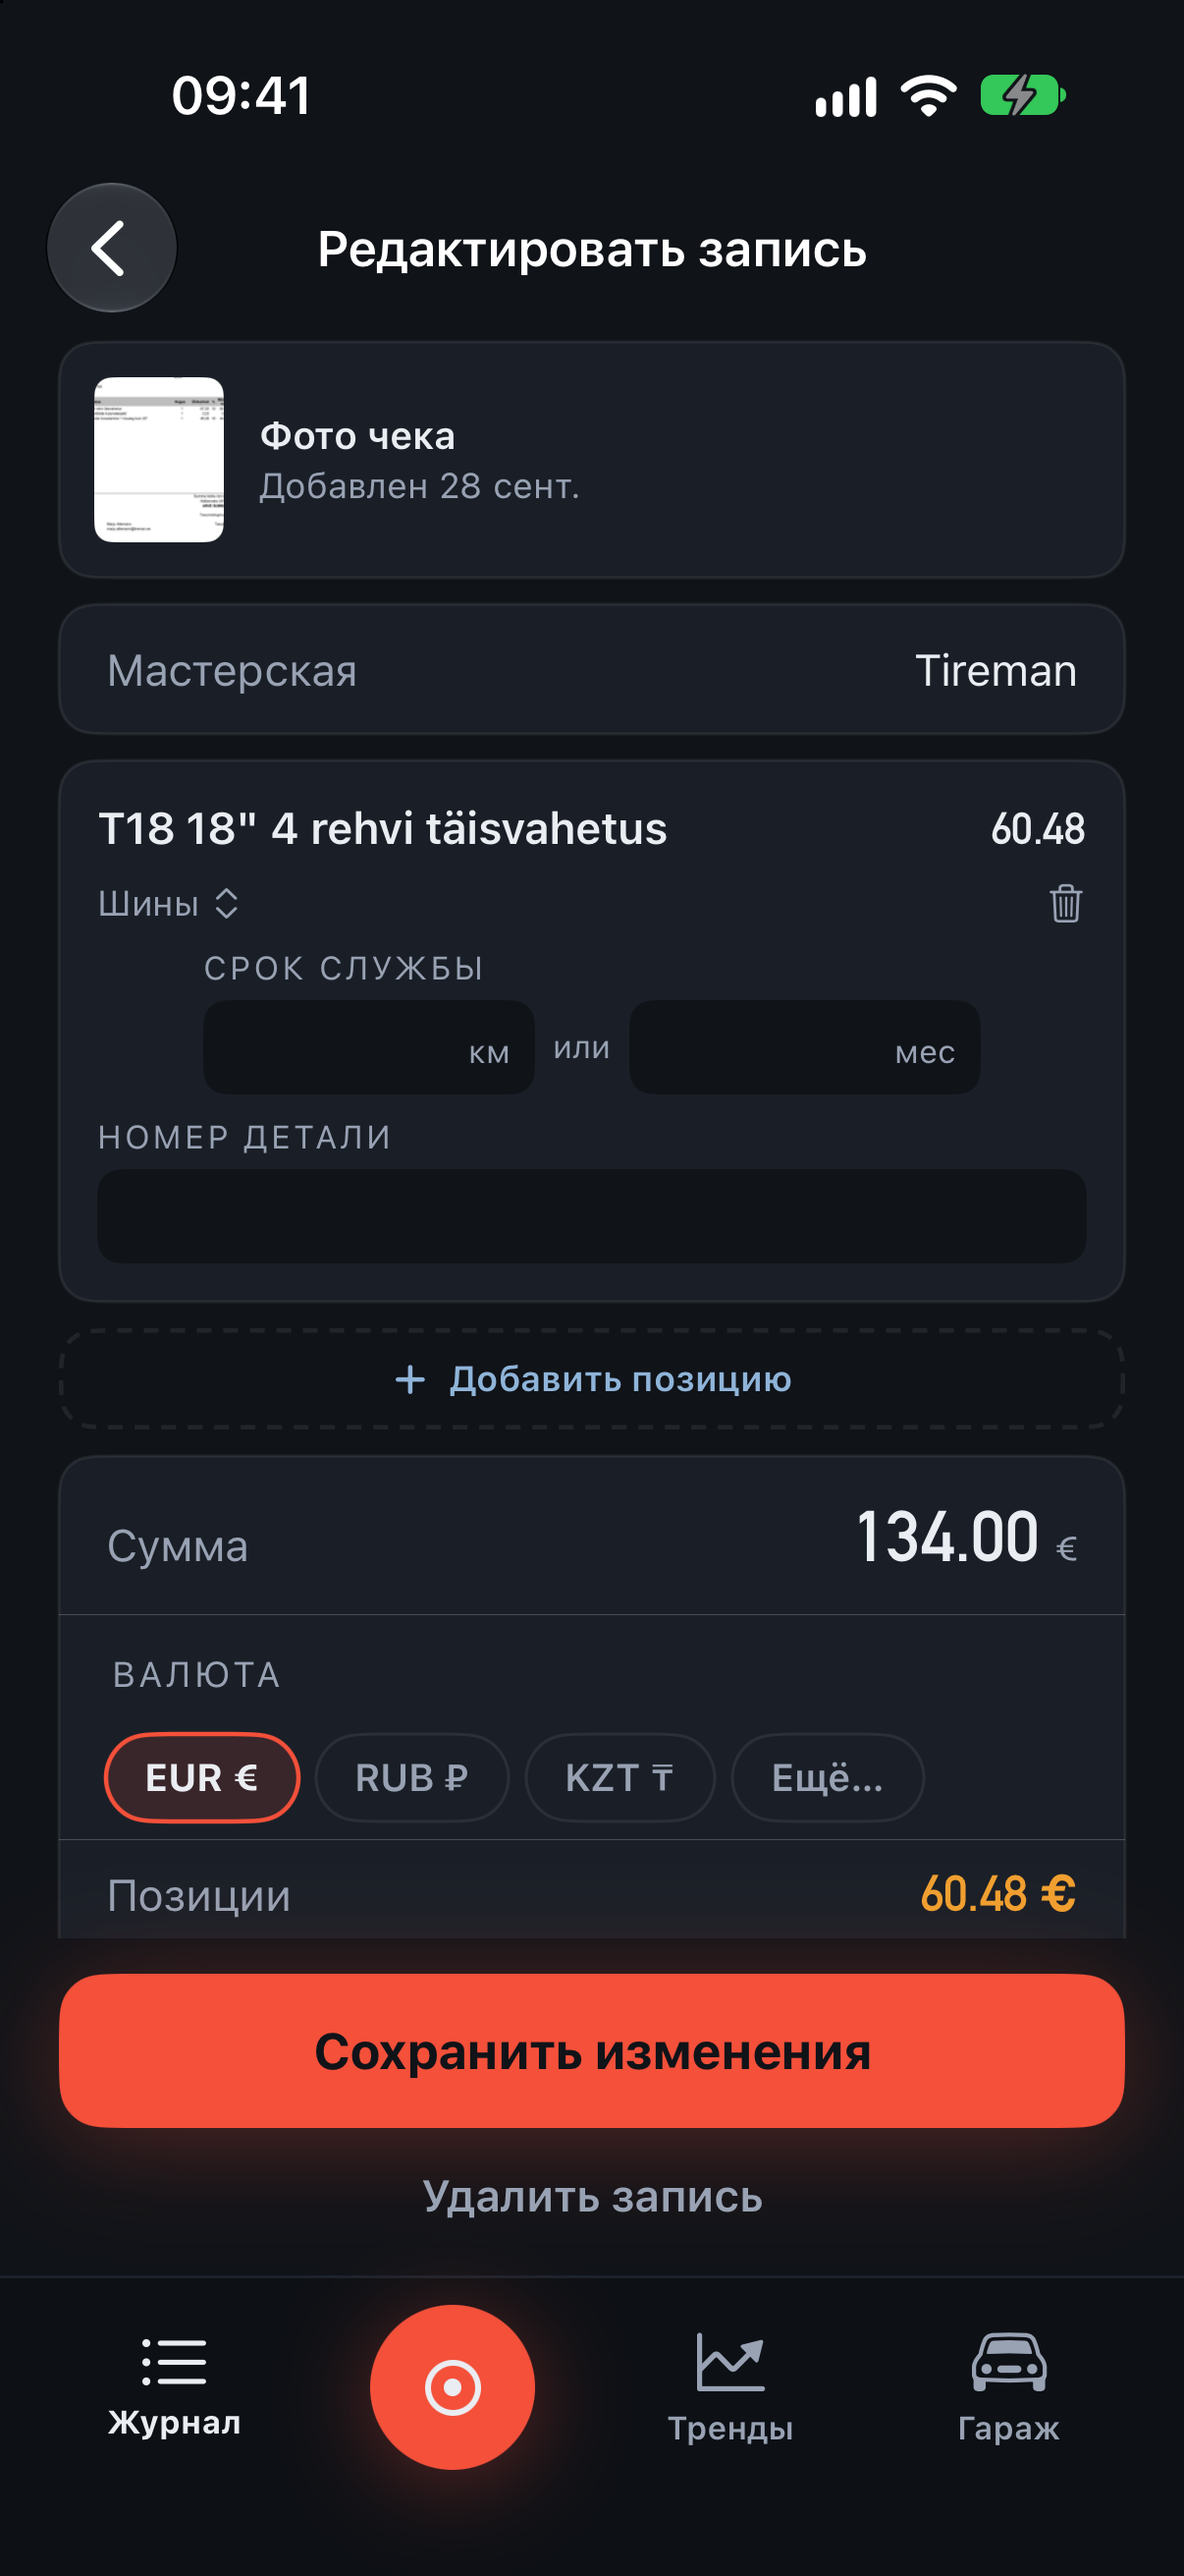
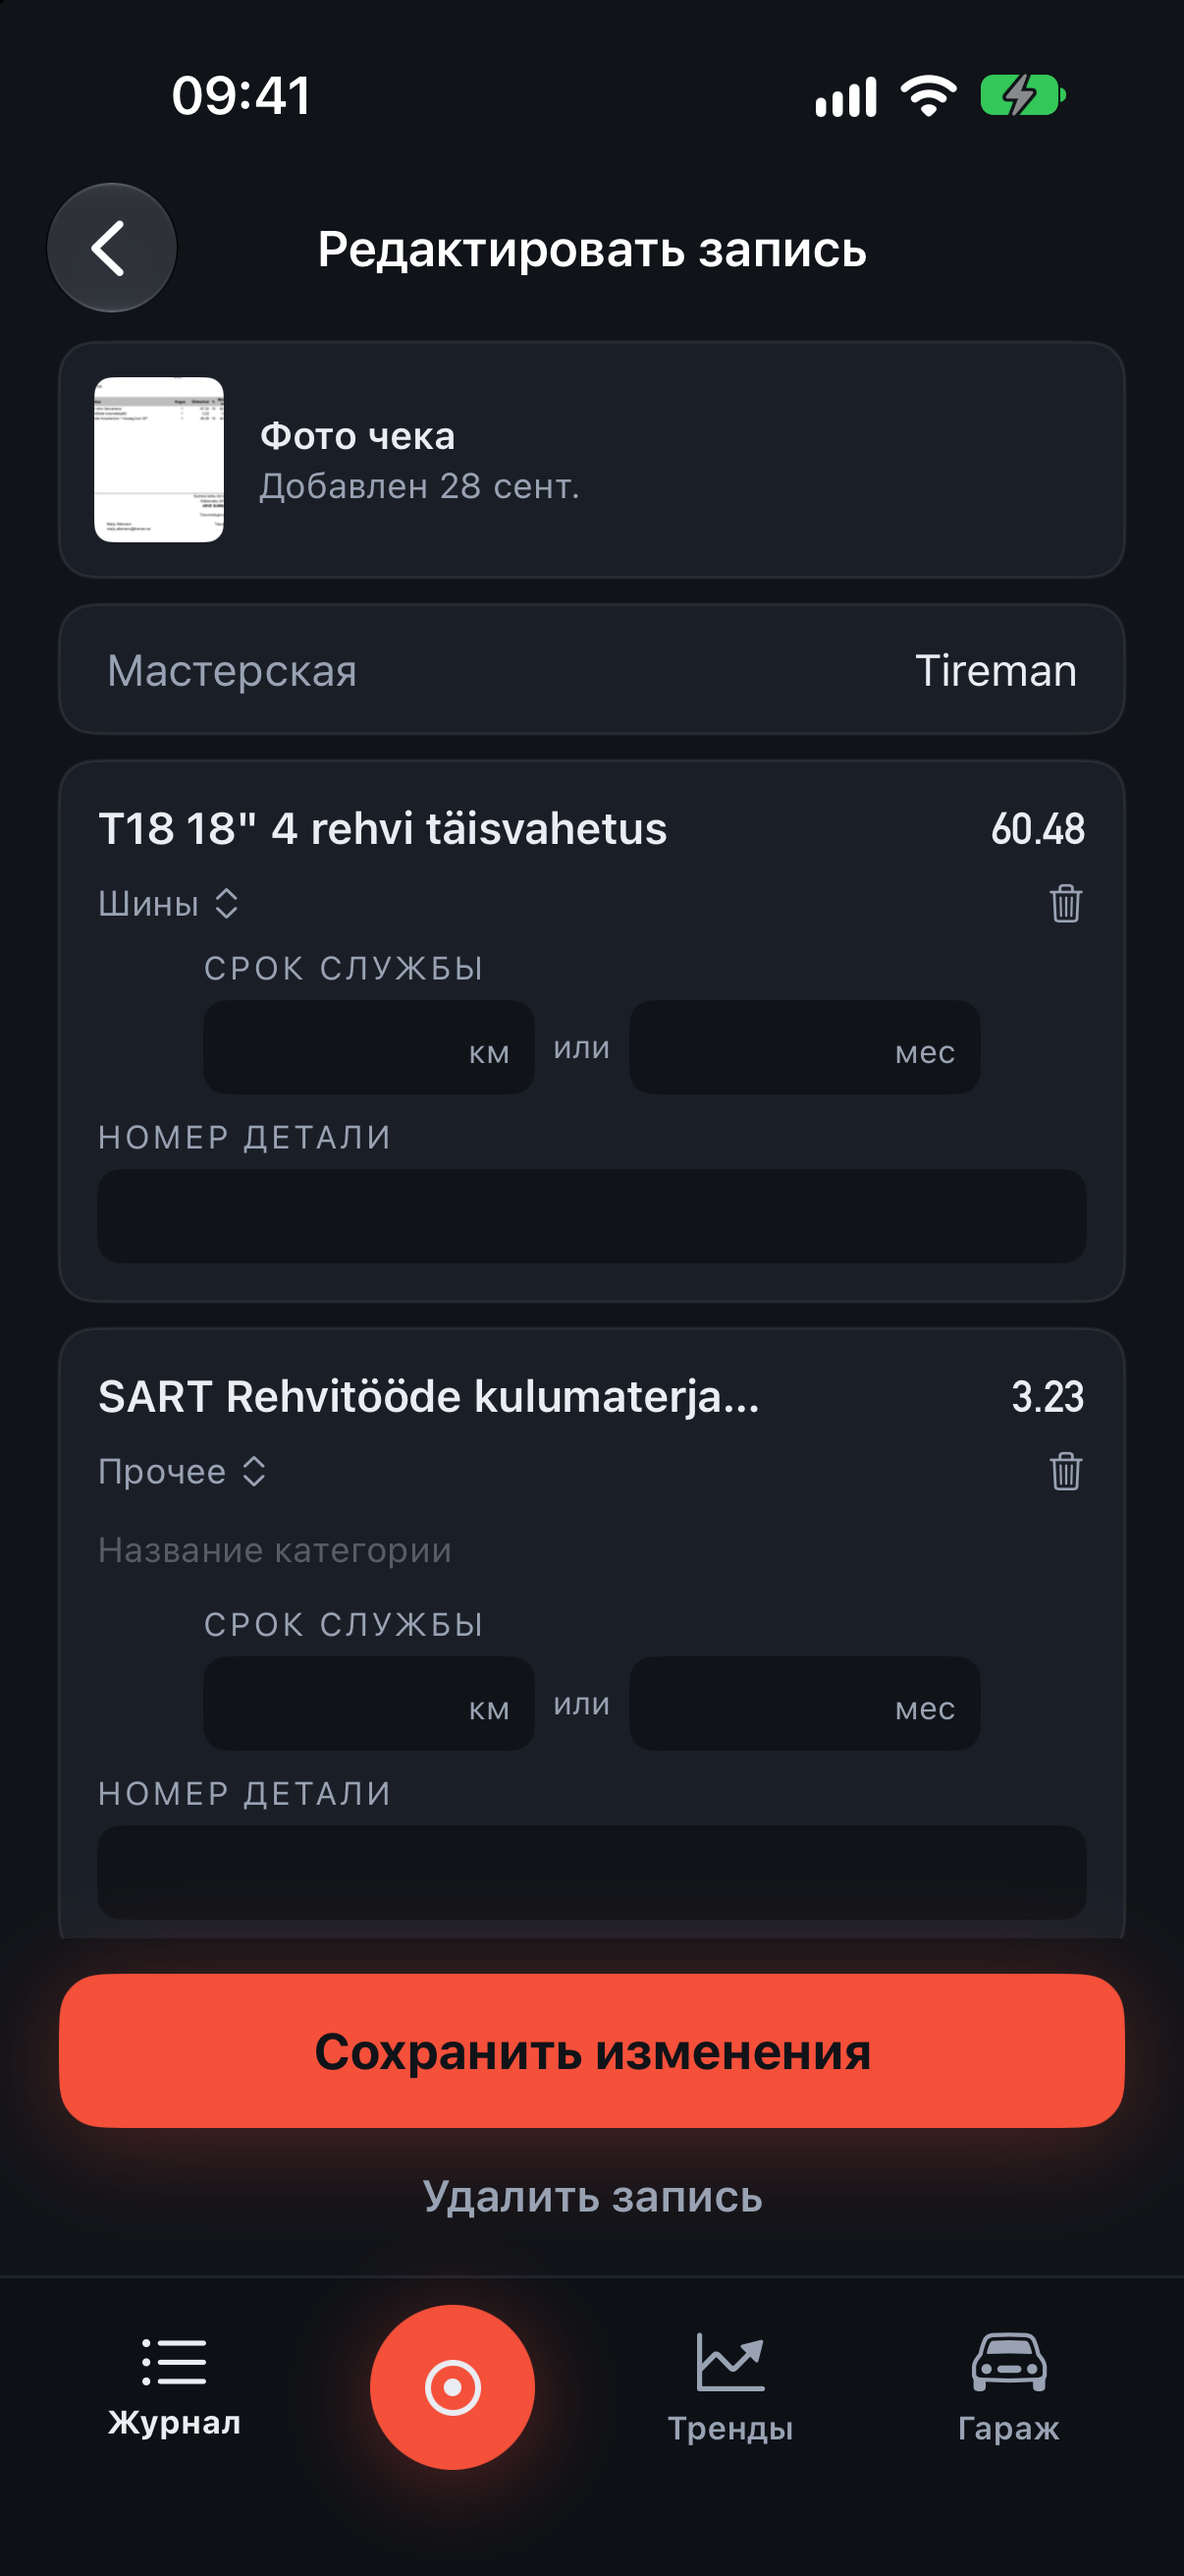
RV.335: the seed carries the invoice's four lines; screenshots scrolled to the line items (EN/RU)

diff --git a/ios/App/Sources/EditEntry/EditEntryServiceTestSeed.swift b/ios/App/Sources/EditEntry/EditEntryServiceTestSeed.swift
@@ -128,10 +128,13 @@ enum EditEntryServiceTestSeed {
         seedServiceRecord(
             money: Money(amount: Decimal(string: "134.00")!, currency: .eur, homeCurrency: .eur),
             vendor: "Tireman",
-            items: [
-                ServiceItem(title: "T18 18\" 4 rehvi täisvahetus", category: .tires,
-                            cost: Money(amount: Decimal(string: "60.48")!, currency: .eur, homeCurrency: .eur))
-            ],
+            items: [("T18 18\" 4 rehvi täisvahetus", ServiceCategory.tires, "60.48"),
+                    ("SART Rehvitööde kulumaterjalid", .other(""), "3.23"),
+                    ("T0059 Rehvide hoiustamine 1 hooaeg kuni 20\"", .tires, "44.35"),
+                    ("Käibemaks 24%", .other(""), "25.94")].map { title, category, cost in
+                ServiceItem(title: title, category: category,
+                            cost: Money(amount: Decimal(string: cost)!, currency: .eur, homeCurrency: .eur))
+            },
             attachments: pages)
     }
 
